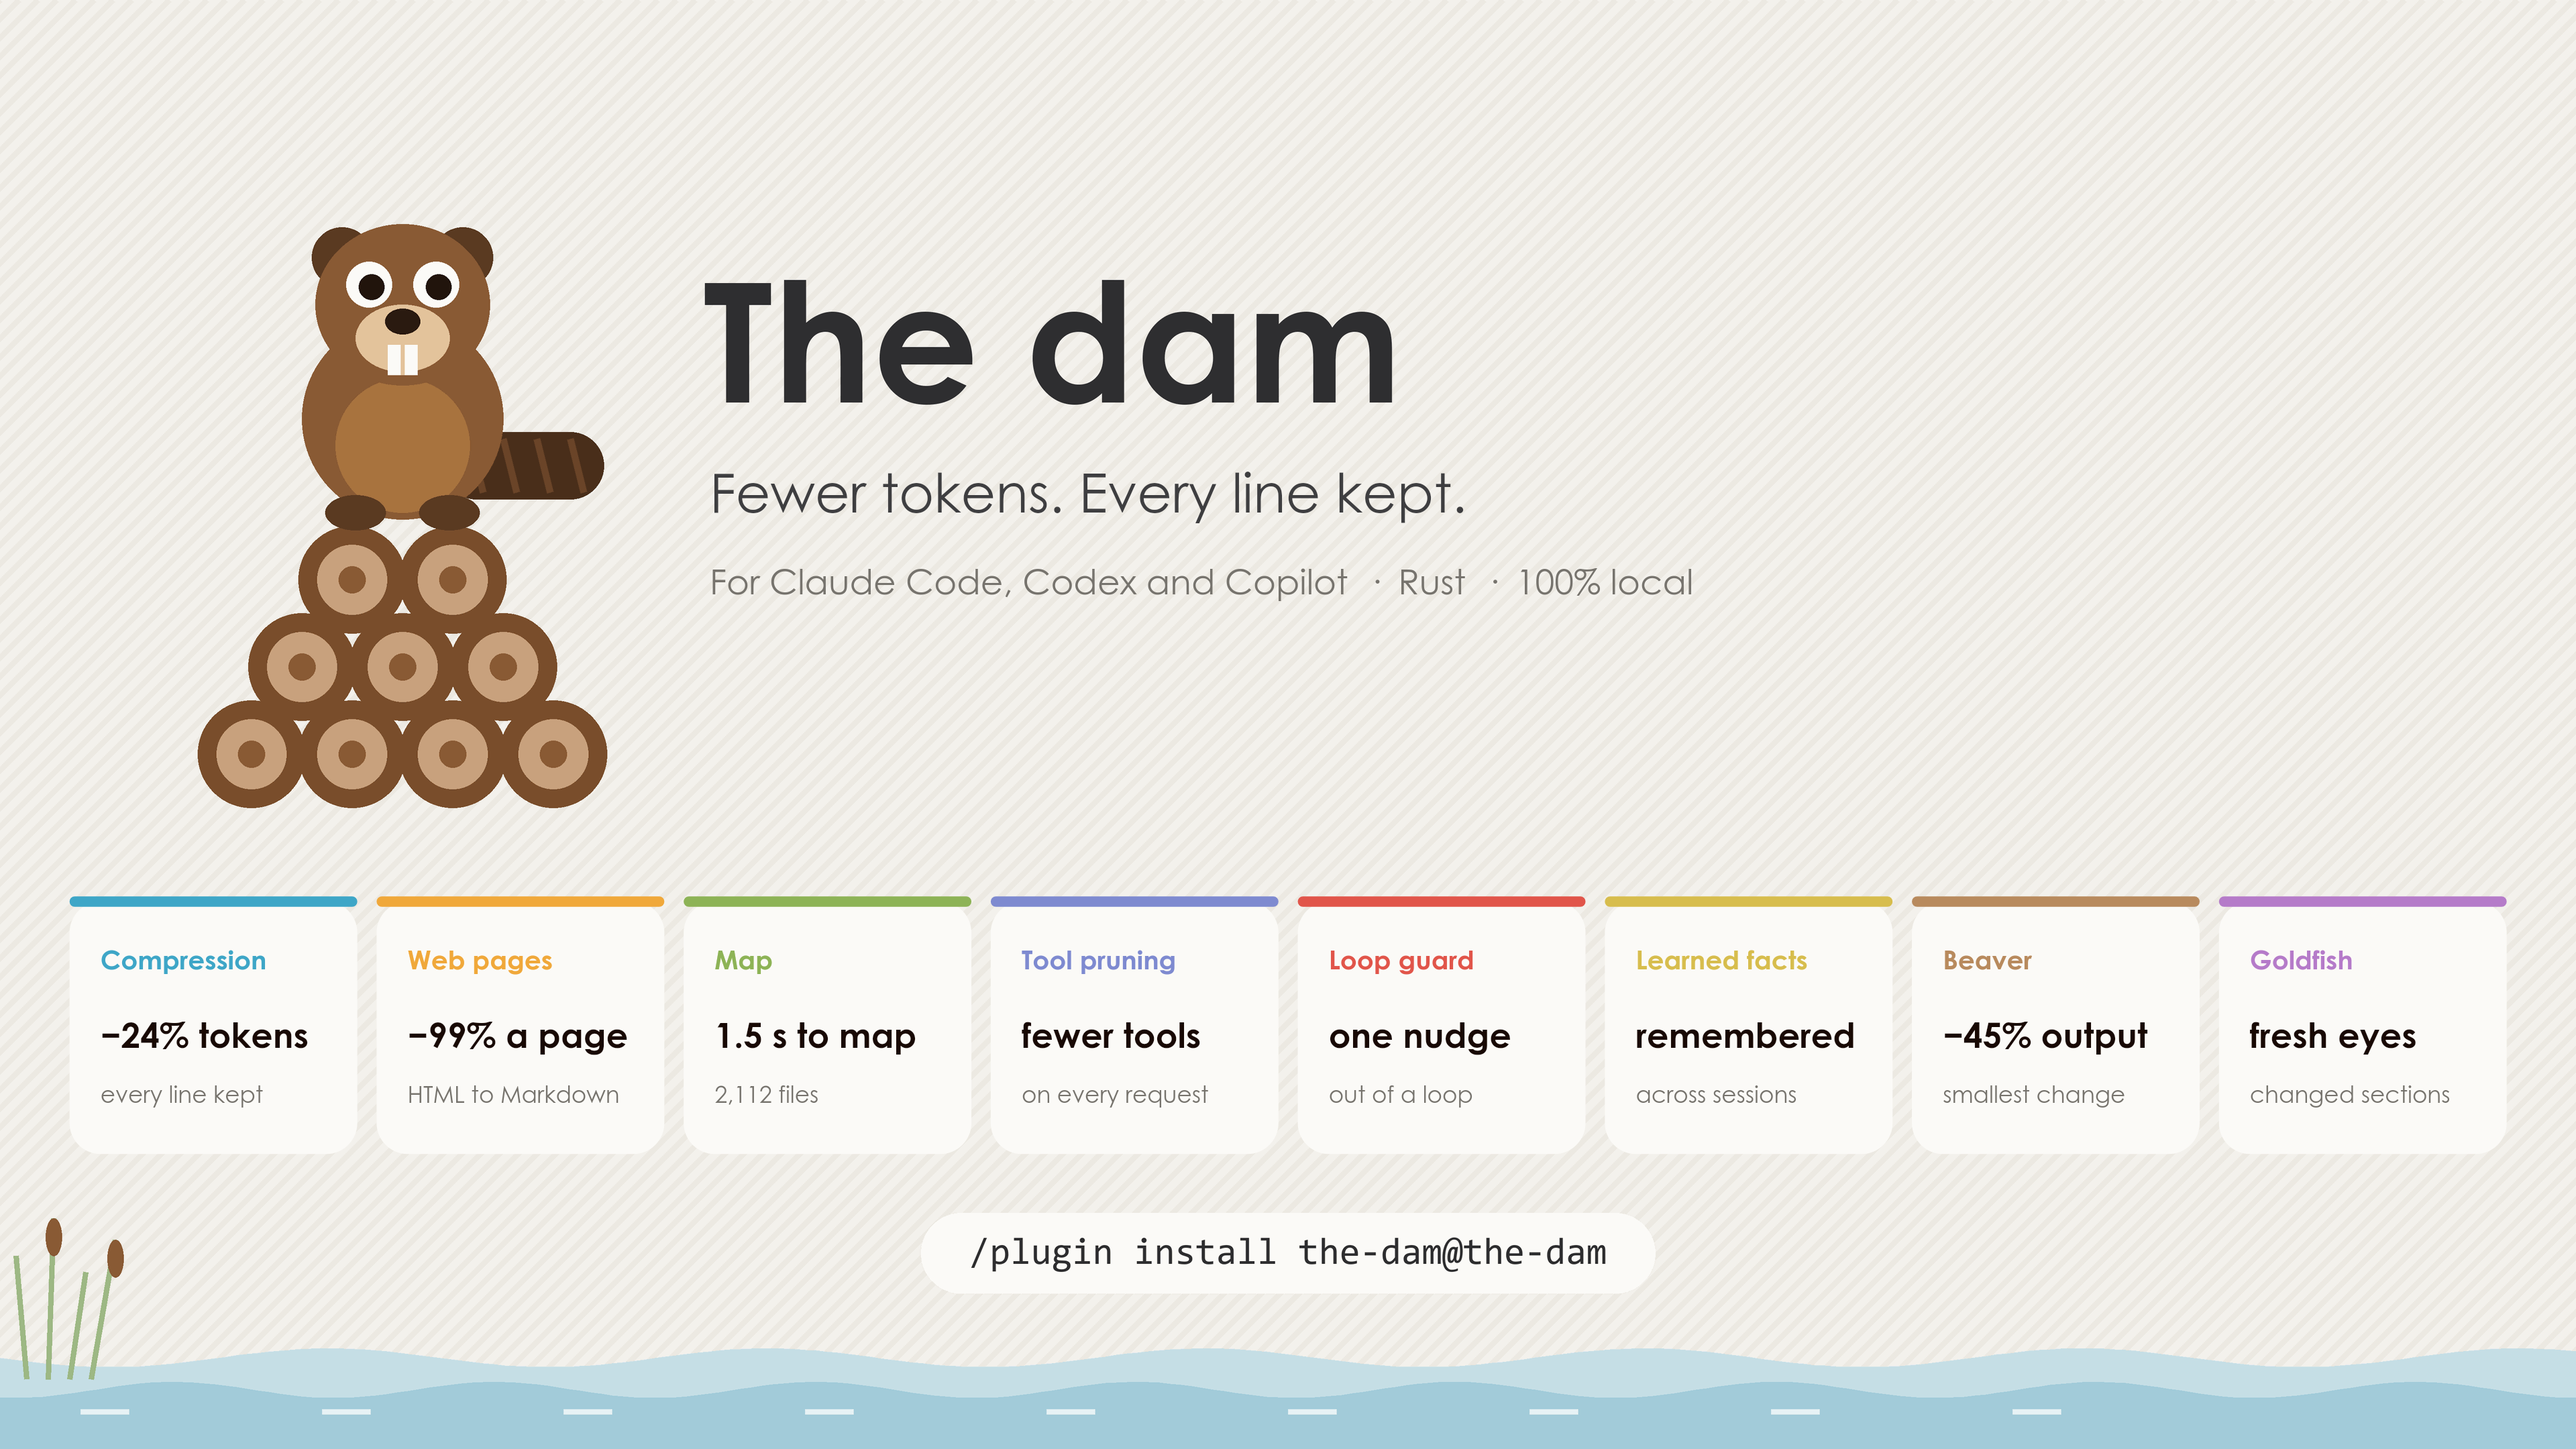
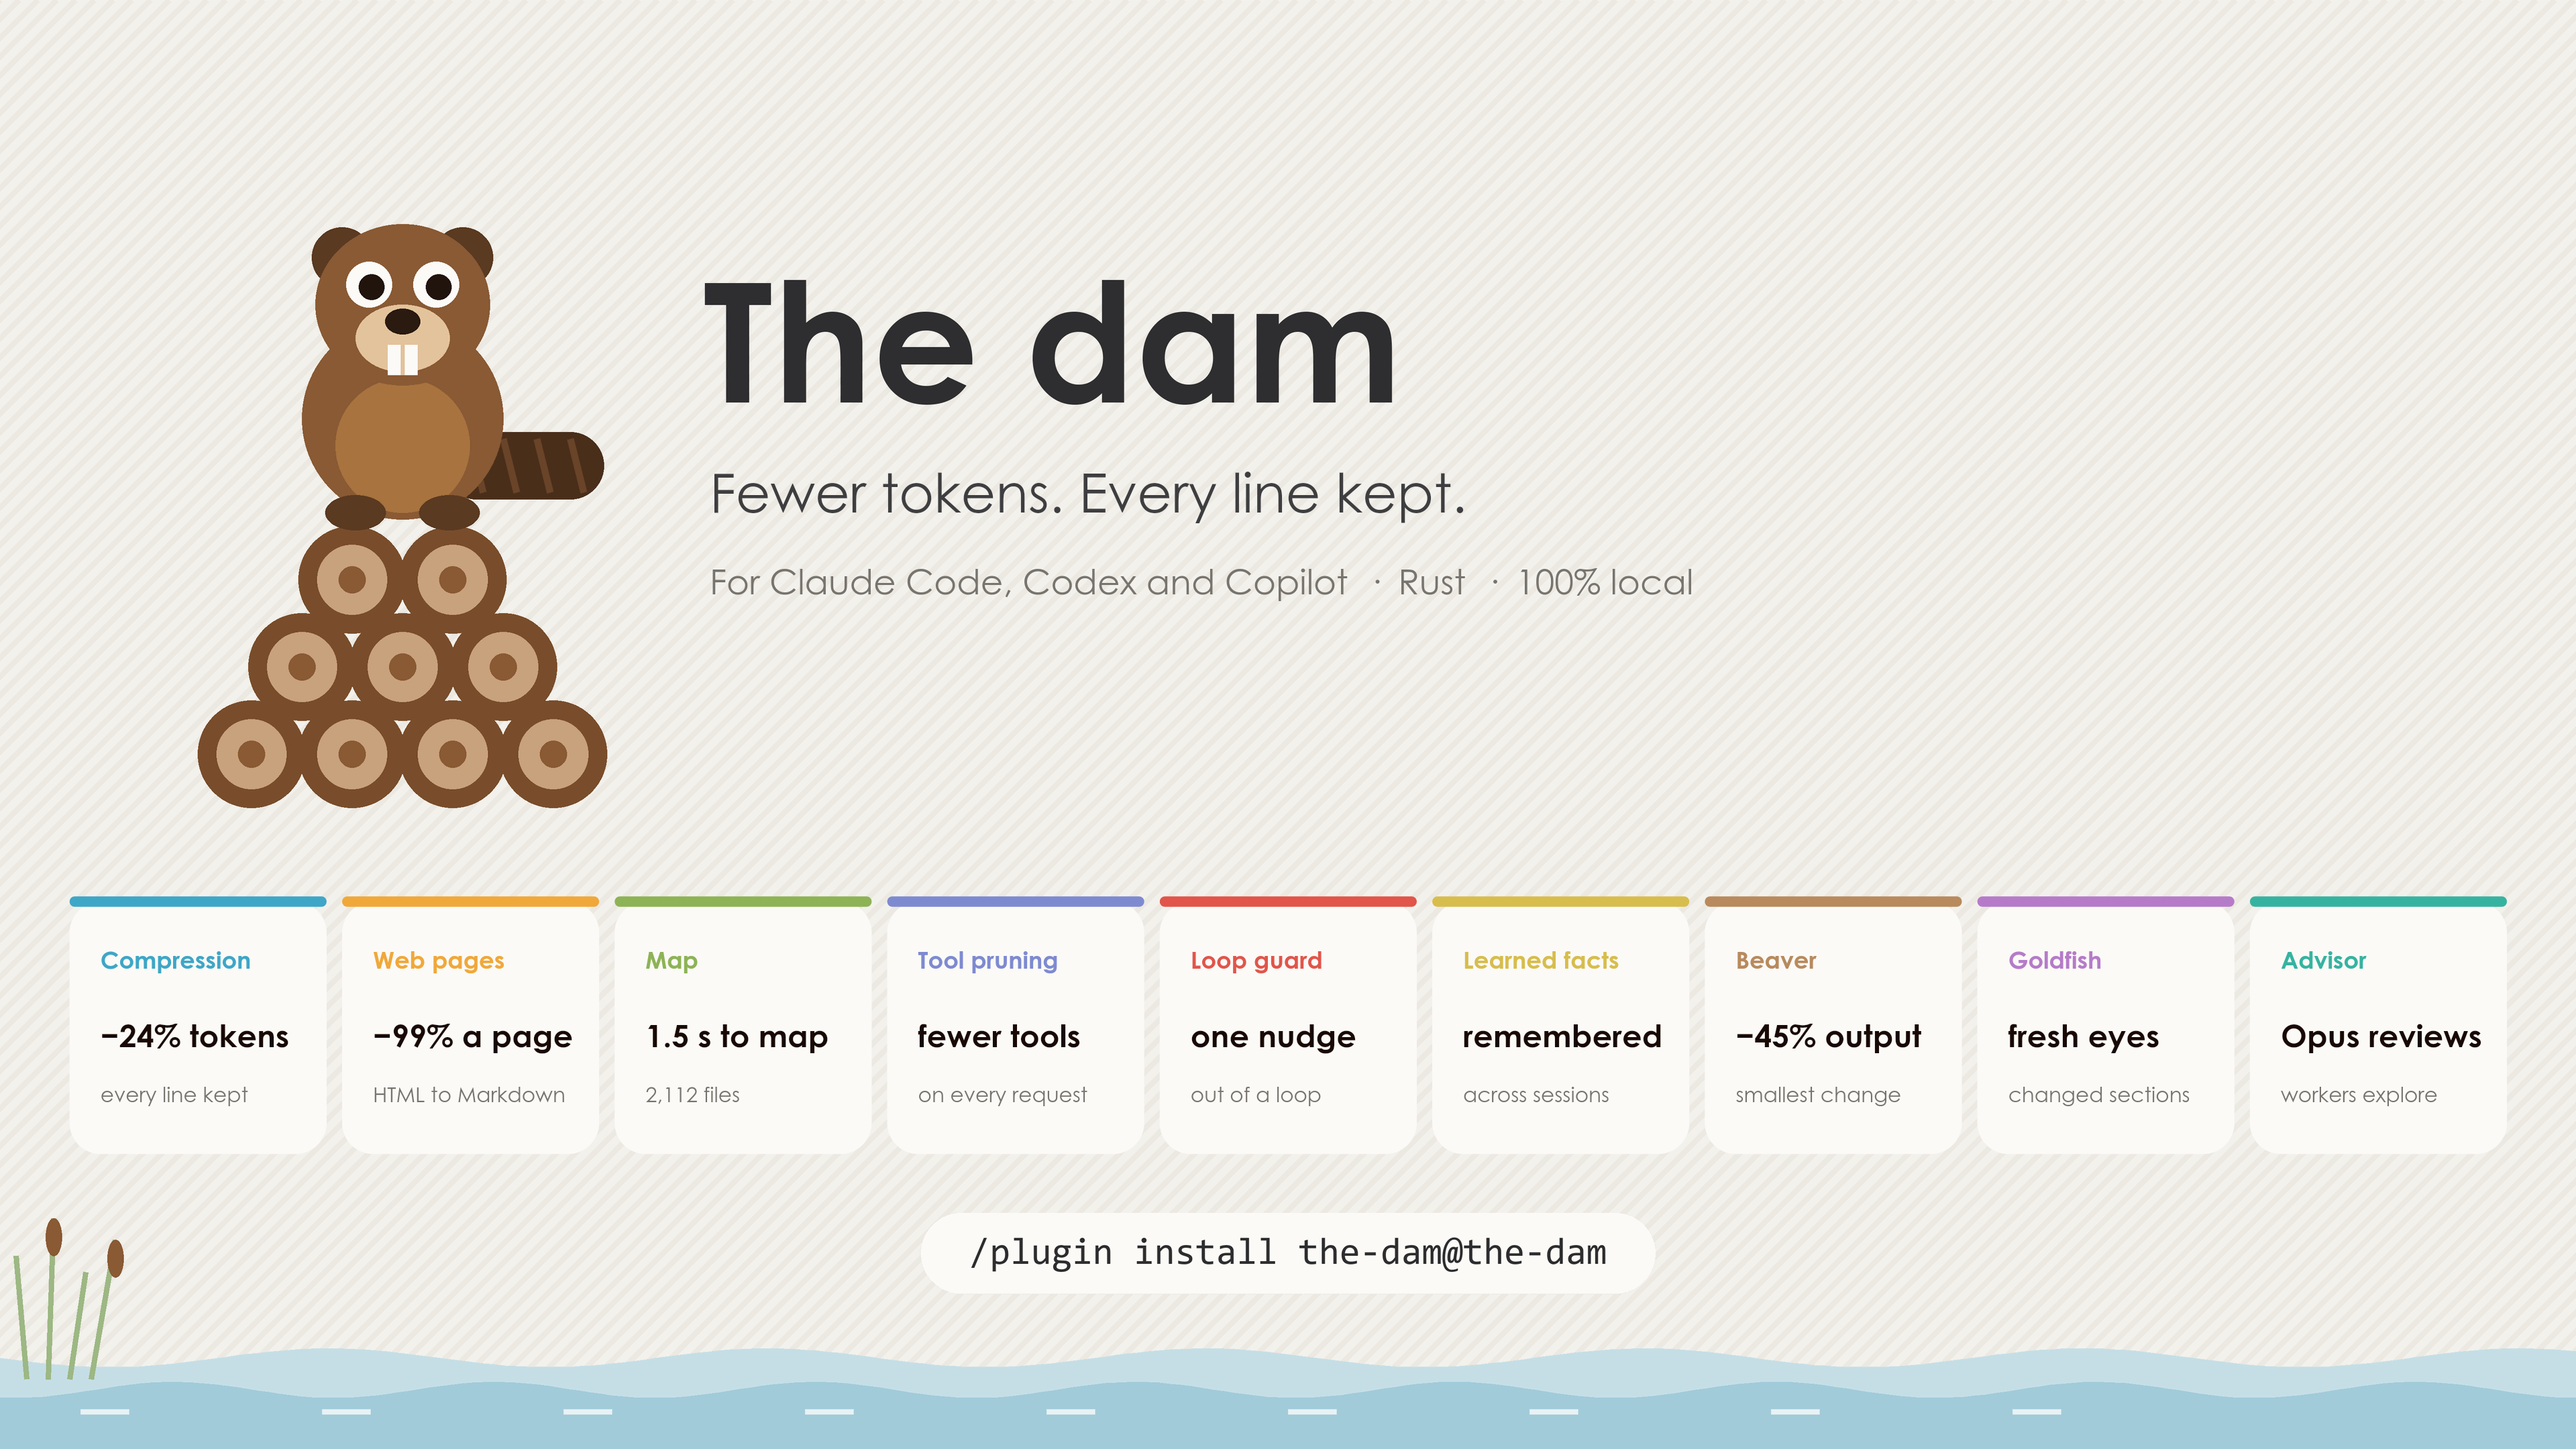
README: a GIF for the advisor and worker pattern and one per EGM skill; intro with an Advisor card

diff --git a/README.md b/README.md
@@ -20,7 +20,7 @@
     <source media="(prefers-color-scheme: dark) and (prefers-reduced-motion: reduce)" srcset="assets/intro-dark.png">
     <source media="(prefers-reduced-motion: reduce)" srcset="assets/intro.png">
     <source media="(prefers-color-scheme: dark)" srcset="assets/intro-dark.gif">
-    <img src="assets/intro.gif" width="100%" alt="The dam in a few seconds: a beaver on its log dam, for Claude Code, Codex and Copilot, then eight cards. Compression, every line kept (up to 24% fewer tokens on repetitive output, about 2.6% over a whole session). Web pages, 99% less of a page, HTML to Markdown. Map, 2,112 files mapped in 1.5 s. Tool pruning, fewer tools on every request. Loop guard, one nudge out of a loop. Learned facts, remembered across sessions. Beaver, 45% less output. Goldfish, fresh reviewers on the sections that changed. Then the install command.">
+    <img src="assets/intro.gif" width="100%" alt="The dam in a few seconds: a beaver on its log dam, for Claude Code, Codex and Copilot, then nine cards. Compression, every line kept (up to 24% fewer tokens on repetitive output, about 2.6% over a whole session). Web pages, 99% less of a page, HTML to Markdown. Map, 2,112 files mapped in 1.5 s. Tool pruning, fewer tools on every request. Loop guard, one nudge out of a loop. Learned facts, remembered across sessions. Beaver, 45% less output. Goldfish, fresh reviewers on the sections that changed. Advisor, Opus reviews while Haiku workers explore. Then the install command.">
   </picture>
 </p>
 
@@ -183,7 +183,35 @@ The [Elephant-Goldfish Model](https://github.com/google/elephant-goldfish-model)
 
 What the dam adds: a finished design document is noticed by a hook and sent to review by itself, code is held back until the review has begun, and the reviewers run on the cheapest model that can do each job. `DAM_GOLDFISH=ask|off` changes that.
 
+### Design
+
+<picture><source media="(prefers-color-scheme: dark)" srcset="assets/part-design-dark.gif"><img src="assets/part-design.gif" width="600" alt="An idea becomes a concepts brief, then a specification, each marked approved"></picture>
+
+`/the-dam:design "idempotency keys"` goes from an idea to a specification in three steps (brainstorm, concepts brief, specification), and waits for your approval after each. The map tells it what already exists, so it reuses before it proposes.
+
+### Resolve and the review loop
+
+<picture><source media="(prefers-color-scheme: dark)" srcset="assets/part-resolve-dark.gif"><img src="assets/part-resolve.gif" width="600" alt="Five findings: three fixed, one contested, one passed to the user"></picture>
+
+`/the-dam:resolve` takes each finding and either contests it (the reviewer was wrong), passes it to you (only you know), or fixes it. Nothing is changed that you did not accept.
+
+<picture><source media="(prefers-color-scheme: dark)" srcset="assets/part-goldfish-loop-dark.gif"><img src="assets/part-goldfish-loop.gif" width="600" alt="Five review rounds with 5, 3, 1, 0 and 0 findings: two clean rounds in a row end the loop"></picture>
+
+`/the-dam:goldfish-loop` repeats review and resolve on a document, or one section, until two clean rounds in a row. Each round reviews only what the last one changed.
+
+### Bootstrap and drift
+
+<picture><source media="(prefers-color-scheme: dark)" srcset="assets/part-bootstrap-dark.gif"><img src="assets/part-bootstrap.gif" width="600" alt="Four folders each get a README that says what it exposes, assumes and touches"></picture>
+
+`/the-dam:bootstrap` writes a README for each folder as a contract (what it exposes, what it assumes, what it touches) from the map, then checks it against the code.
+
+<picture><source media="(prefers-color-scheme: dark)" srcset="assets/part-drift-dark.gif"><img src="assets/part-drift.gif" width="600" alt="Six lines of a README checked against the code: two fail, a file that is gone and a name that was renamed"></picture>
+
+`/the-dam:drift` (or `dam goldfish drift README.md`) lists what a document says that the code no longer backs: files gone or moved, names renamed or removed. The README and `docs/` are checked once at each session start.
+
 ### Advisor and workers
+
+<picture><source media="(prefers-color-scheme: dark)" srcset="assets/part-advisor-dark.gif"><img src="assets/part-advisor.gif" width="600" alt="The session makes six looks of its own, then a Haiku worker reads five files and returns facts; the session writes the change and an Opus advisor reviews it: zero blockers"></picture>
 
 The model that runs the session is not the one that reviews or explores. Three roles on one ladder in each host:
 

diff --git a/CHANGELOG.md b/CHANGELOG.md
@@ -2,6 +2,7 @@
 
 ## 0.32.0
 
+- **More pictures.** A GIF for the advisor and worker pattern and one for each EGM skill (design, resolve, review loop, bootstrap, drift), light and dark, each under its own heading in the README; the intro has a ninth card, Advisor.
 - **The README and the pictures follow.** The intro GIF now says Claude Code, Codex and Copilot and has an eighth card for Goldfish (and its still poster, light and dark). The README lists every EGM skill ported (Brainstorm and Draft as `design`, Review, Resolve, Review loop, Bootstrap, Drift report, following upstream), describes the advisor and worker pattern on each host, and its host table, status line and switches match what runs.
 - **A GIF for the design review**, in the same style as the others (`assets/part-goldfish.gif`, with its dark twin), under "How it works" in the README.
 - **Dollars on Codex when the price is known.** `💸 $1.23` for GPT-6.1 Sol (OpenAI API price $2 / $0.10 cached / $2.50 cache write / $10 output per million, standard tier up to 272K input, so a very long request reads low); other Codex models keep the token pricing until their price is added to `pricing.rs`. Copilot stays in premium requests: GitHub moved to credits in June 2026, so a dollar figure from requests would be wrong for some plans.
